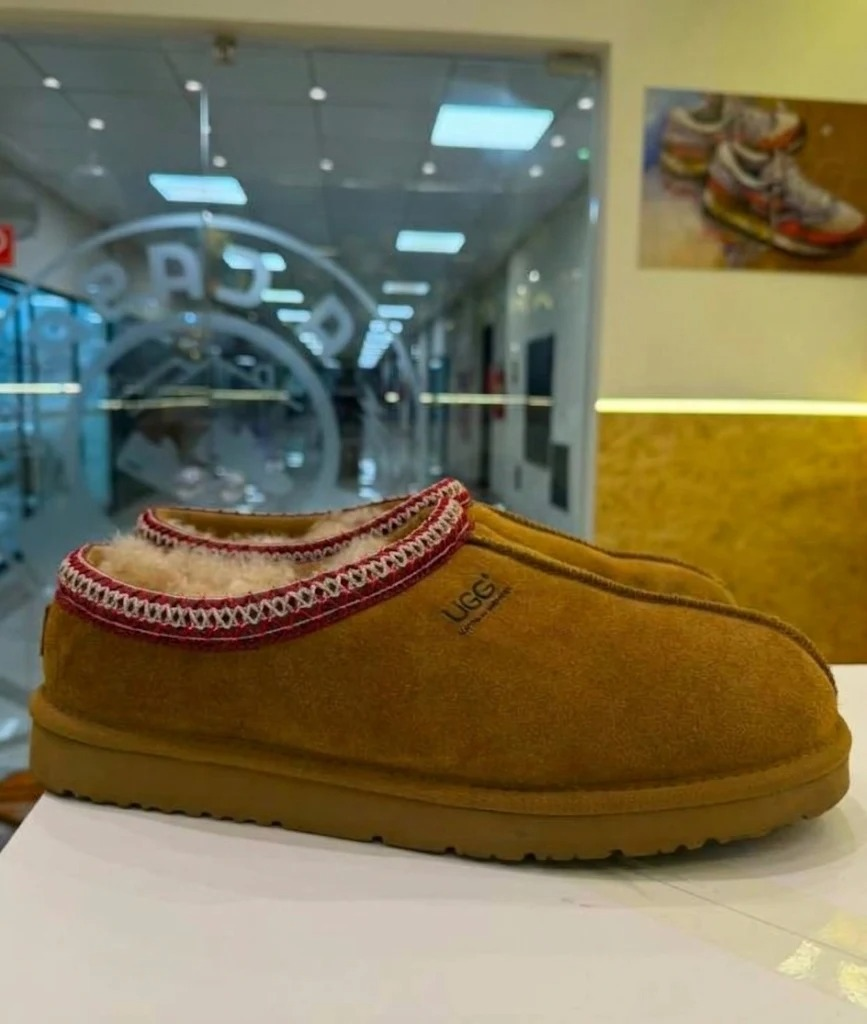
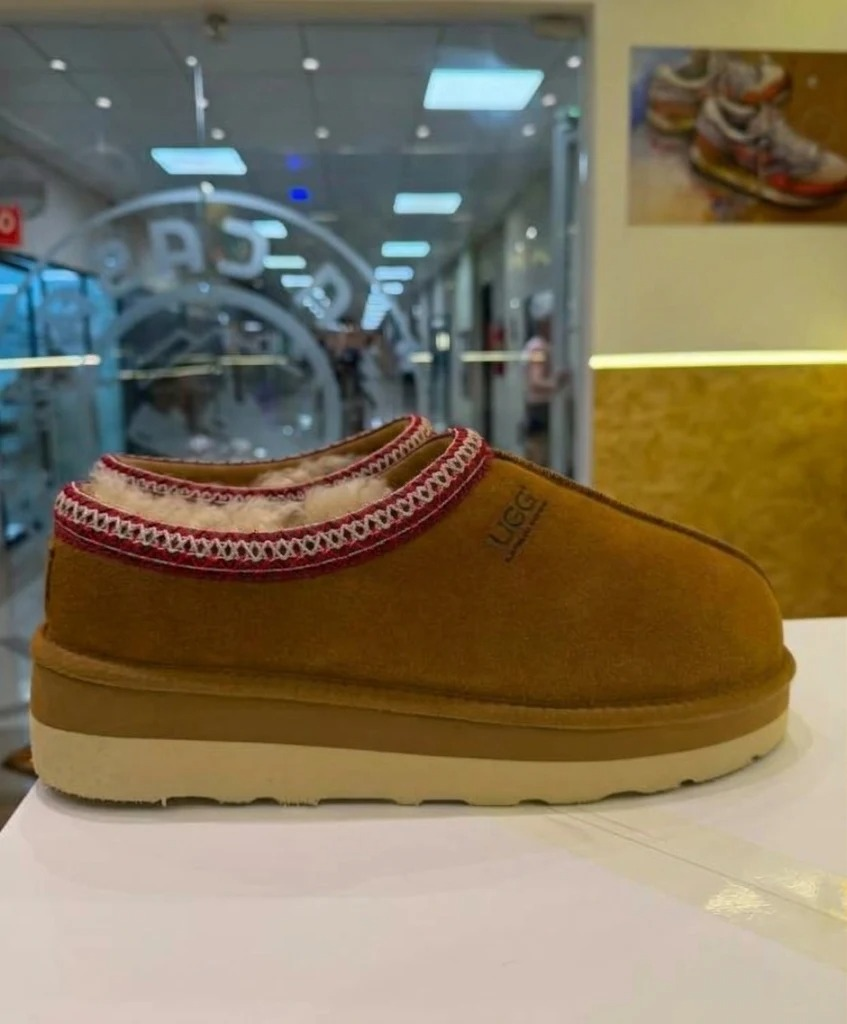
fix(v1): fotos certas de antes e depois na troca de sola e na customização
Claude-Session: https://claude.ai/code/session_01BEdSzyYURuvjYPh6VuViRL

diff --git a/src/v1/data/media.js b/src/v1/data/media.js
@@ -48,7 +48,7 @@ export const MEDIA = {
     customizacao: slot(
       "Serviço 04 · customização",
       "4/3",
-      "Calçado de camurça caramelo com solado plataforma customizado",
+      "Calçado de camurça caramelo com o solado customizado no mesmo tom",
       { src: "/v1/servicos/customizacao-depois.jpg", position: "50% 62%" },
     ),
   },
@@ -91,10 +91,9 @@ export const MEDIA = {
       id: "solado",
       title: "Troca de sola",
       detail: "Solado novo, colado e conferido na bancada.",
-      // Sem foto de "antes" deste par: usa um solado gasto de outro par como referência
-      before: slot("Antes · troca de sola", "4/5", "Solado gasto e manchado, antes da troca", {
-        src: "/v1/servicos/lavagem-antes.webp",
-        position: "50% 70%",
+      before: slot("Antes · troca de sola", "4/5", "Solado gasto e trincado, antes da troca", {
+        src: "/v1/servicos/solado-antes.jpg",
+        position: "50% 50%",
       }),
       after: slot(
         "Depois · troca de sola",
@@ -111,17 +110,17 @@ export const MEDIA = {
       // e customizacao-depois.jpg). Sem os arquivos, aparece o bloco temporário.
       id: "customizacao",
       title: "Customização",
-      detail: "Solado plataforma aplicado à mão.",
+      detail: "Solado plataforma trocado e tingido no tom da camurça.",
       before: slot(
         "Antes · customização",
         "4/5",
-        "Calçado de camurça caramelo com o solado original",
+        "Calçado de camurça caramelo com solado plataforma branco",
         {
           src: "/v1/servicos/customizacao-antes.jpg",
           position: "40% 70%",
         },
       ),
-      after: slot("Depois · customização", "4/5", "O mesmo calçado com o novo solado plataforma", {
+      after: slot("Depois · customização", "4/5", "O mesmo calçado com o solado no tom caramelo", {
         src: "/v1/servicos/customizacao-depois.jpg",
         position: "40% 70%",
       }),
